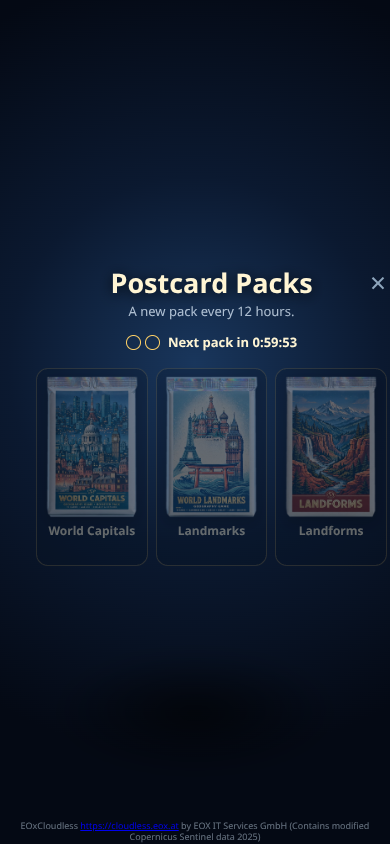
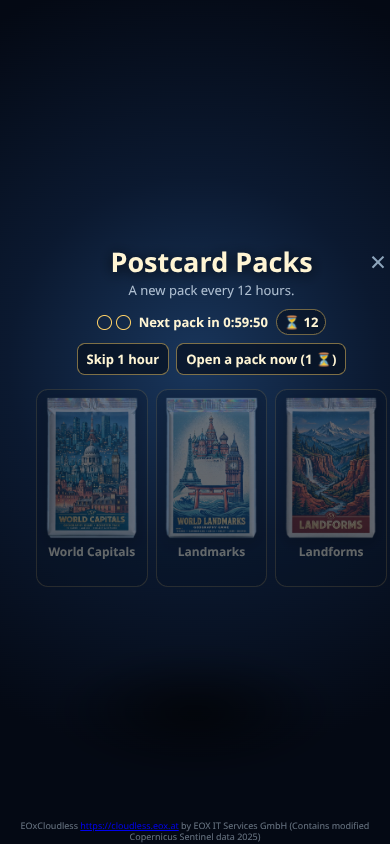
pack-tokens: hour-skip currency (starter grant 12, roll-forward spending) and capitals set completed to 206

Changed region(s): [[0.0923, 0.2773, 0.9846, 0.6777], [0.9846, 0.6469, 1.0, 0.6777], [0.9538, 0.3081, 0.9846, 0.3389]]

diff --git a/src/modes/pack.js b/src/modes/pack.js
@@ -14,7 +14,7 @@ import { formatKm } from '../core/format.js';
 import { buildPostcardCard } from '../meta/postcard-card.js';
 import {
   PACK_CARDS, packPool, landmarkPackPool, landformPackPool, readPack, ensurePack,
-  savePackResult, completePack, spend, writePack, packOutcome, packSummary,
+  savePackResult, completePack, spend, applySkips, writePack, packOutcome, packSummary,
 } from '../meta/pack-store.js';
 
 let host = null;
@@ -29,6 +29,7 @@ export const pack = { active: false, type: 'capitals', card: 0, item: null, reco
 
 let entry;
 let els;
+let tickSelect = null;
 // The opening ritual (2026-10-18): a fresh pack starts sealed for this
 // session, the unplayed cards wait in one stack and the top card flips to
 // its clue before its round (2026-10-29), and a played card stamps into its
@@ -225,7 +226,34 @@ export function showPackSelect() {
   const render = () => {
     if (els.select.hidden) return;
     pack.record = readPack();
-    els.selectStamina.innerHTML = `<span class="pack-pips" aria-hidden="true"><i class="${pack.record.stamina.stored > 0 ? 'full' : ''}"></i><i class="${pack.record.stamina.stored > 1 ? 'full' : ''}"></i></span>${staminaText(pack.record)}`;
+    const waitHours = pack.record.stamina.nextAt == null ? 0
+      : Math.max(0, Math.ceil((pack.record.stamina.nextAt - Date.now()) / (60 * 60 * 1000)));
+    els.selectStamina.innerHTML = `<div class="pack-stamina-line"><span class="pack-pips" aria-hidden="true"><i class="${pack.record.stamina.stored > 0 ? 'full' : ''}"></i><i class="${pack.record.stamina.stored > 1 ? 'full' : ''}"></i></span><span class="pack-stamina-text">${staminaText(pack.record)}</span><span class="pack-skip-balance">⏳ ${pack.record.skips}</span></div>`;
+    if (pack.record.stamina.stored < 2 && pack.record.skips > 0) {
+      const actions = document.createElement('div');
+      actions.className = 'pack-skip-actions';
+      const skipButton = document.createElement('button');
+      skipButton.type = 'button';
+      skipButton.textContent = 'Skip 1 hour';
+      skipButton.addEventListener('click', () => {
+        applySkips(pack.record, 1);
+        writePack(pack.record);
+        render();
+      });
+      actions.append(skipButton);
+      if (waitHours && pack.record.skips >= waitHours) {
+        const openButton = document.createElement('button');
+        openButton.type = 'button';
+        openButton.textContent = `Open a pack now (${waitHours} ⏳)`;
+        openButton.addEventListener('click', () => {
+          applySkips(pack.record, waitHours);
+          writePack(pack.record);
+          render();
+        });
+        actions.append(openButton);
+      }
+      els.selectStamina.append(actions);
+    }
     els.choices.replaceChildren(...PACKS.map((config) => {
       const saved = pack.record.byType[config.type];
       const inProgress = Boolean(saved && (saved.torn || saved.results.some(Boolean)));
@@ -241,6 +269,16 @@ export function showPackSelect() {
       });
       return button;
     }));
+  };
+  tickSelect = () => {
+    if (els.select.hidden) return;
+    const stored = pack.record.stamina.stored;
+    pack.record = readPack();
+    if (pack.record.stamina.stored !== stored) render();
+    else {
+      const text = els.selectStamina.querySelector('.pack-stamina-text');
+      if (text) text.textContent = staminaText(pack.record);
+    }
   };
   render();
   els.screen.hidden = false;
@@ -617,7 +655,7 @@ export function initPack(main) {
     else host.goHome();
   });
   setInterval(() => {
-    if (!screen.hidden && !els.select.hidden) showPackSelect();
+    if (!screen.hidden && !els.select.hidden) tickSelect?.();
     else if (!host.gameEls.start.hidden) syncPackButton();
   }, 1000);
 }

diff --git a/src/meta/pack-store.js b/src/meta/pack-store.js
@@ -8,6 +8,7 @@ import { PACK_LANDFORM_IDS } from './pack-landforms.js';
 export const PACK_CARDS = 3;
 export const STAMINA_MAX = 2;
 export const STAMINA_PERIOD = 12 * 60 * 60 * 1000;
+export const SKIP_PERIOD = 60 * 60 * 1000;
 export const PACK_TYPES = ['capitals', 'landmarks', 'landforms'];
 const LEGACY_TORN_KEY = `${PACK_KEY}-torn`;
 
@@ -45,7 +46,23 @@ export function spend(record, now = Date.now()) {
   return true;
 }
 
+export function applySkips(record, count, now = Date.now()) {
+  let consumed = 0;
+  while (consumed < count && record.skips > 0 && record.stamina.stored < STAMINA_MAX) {
+    record.stamina.nextAt -= SKIP_PERIOD;
+    record.skips -= 1;
+    consumed += 1;
+    if (record.stamina.nextAt <= now) {
+      record.stamina.stored += 1;
+      record.stamina.nextAt = record.stamina.stored >= STAMINA_MAX
+        ? null : record.stamina.nextAt + STAMINA_PERIOD;
+    }
+  }
+  return consumed;
+}
+
 const freshRecord = () => ({
+  skips: 12,
   stamina: { stored: STAMINA_MAX, nextAt: null },
   byType: { capitals: null, landmarks: null, landforms: null },
 });
@@ -53,10 +70,12 @@ const freshRecord = () => ({
 export function readPack(now = Date.now()) {
   const saved = readJSON(PACK_KEY);
   if (saved?.byType && saved?.stamina) {
+    const missingSkips = !Object.hasOwn(saved, 'skips');
+    if (missingSkips) saved.skips = 12;
     const before = JSON.stringify(saved.stamina);
     accrue(saved, now);
     for (const type of PACK_TYPES) if (!(type in saved.byType)) saved.byType[type] = null;
-    if (JSON.stringify(saved.stamina) !== before) writePack(saved);
+    if (missingSkips || JSON.stringify(saved.stamina) !== before) writePack(saved);
     return saved;
   }
   const record = freshRecord();

diff --git a/src/styles/game.css b/src/styles/game.css
@@ -475,7 +475,11 @@ body:not(.game-start) .load-pill.on { opacity: 0; visibility: hidden; transition
 .pack-panel h2 { padding: 0 34px; color: #fff5d4; font-size: 25px; line-height: 1.1; text-shadow: 0 2px 14px rgba(0,0,0,.8); }
 .pack-panel > .pack-line { margin: 4px 0 8px; }
 .pack-subline { margin: 5px 0 10px; color: rgba(224,238,252,.76); font-size: 13px; }
-.pack-stamina { display: flex; align-items: center; justify-content: center; gap: 8px; min-height: 24px; margin-bottom: 14px; color: #fff5d4; font-size: 13px; font-weight: 750; }
+.pack-stamina { min-height: 24px; margin-bottom: 14px; color: #fff5d4; font-size: 13px; font-weight: 750; }
+.pack-stamina-line { display: flex; align-items: center; justify-content: center; gap: 8px; }
+.pack-skip-balance { padding: 3px 7px; border: 1px solid rgba(255,209,102,.42); border-radius: 999px; background: rgba(5,15,31,.58); }
+.pack-skip-actions { display: flex; justify-content: center; gap: 7px; margin-top: 8px; }
+.pack-skip-actions button { padding: 6px 9px; border: 1px solid rgba(255,209,102,.48); border-radius: 8px; background: rgba(5,15,31,.72); color: #fff5d4; font: inherit; cursor: pointer; }
 .pack-pips { display: inline-flex; gap: 4px; }
 .pack-pips i { width: 13px; height: 13px; border: 1px solid #ffd166; border-radius: 50%; background: transparent; }
 .pack-pips i.full { background: #ffd166; box-shadow: 0 0 7px rgba(255,209,102,.65); }

diff --git a/src/meta/pack-capitals.js b/src/meta/pack-capitals.js
@@ -99,6 +99,7 @@ export const PACK_CAPITAL_IDS = new Set([
   'ljubljana-si',
   'lome-tg',
   'london-uk',
+  'longyearbyen-svalbard',
   'luanda-angola',
   'lusaka',
   'luxembourg-city',
@@ -130,12 +131,15 @@ export const PACK_CAPITAL_IDS = new Set([
   'nicosia-cyprus',
   'niue-alofi',
   'nouakchott-mr',
+  'noumea-new-caledonia',
   'nuku-alofa-tonga',
+  'nuuk-greenland',
   'oslo-norway',
   'ottawa-canada',
   'ouagadougou-burkina-faso',
   'palikir-micronesia',
   'panama-city',
+  'papeete-tahiti',
   'paramaribo-suriname',
   'paris-france',
   'phnom-penh-cambodia',
@@ -159,6 +163,7 @@ export const PACK_CAPITAL_IDS = new Set([
   'rome-italy',
   'roseau-dominica',
   'san-jose-costa-rica',
+  'san-juan',
   'san-marino-san-marino',
   'san-salvador-sv',
   'sanaa-ye',

diff --git a/scripts/pack-capitals/derive.py b/scripts/pack-capitals/derive.py
@@ -30,6 +30,9 @@ CAPITAL_OVERRIDES = {
     'Mongolia': ['Ulaanbaatar'], 'Myanmar': ['Nay Pyi Taw'], 'San Marino': ['San Marino'], 'Yemen': ['Sanaa'],
     'India': ['Delhi'], 'Equatorial Guinea': ['Malabo'], 'Eswatini': ['Mbabane'], 'South Africa': ['Pretoria'],
 }
+# Territory capitals are filed under their administering country in the bank,
+# so the per-country capital pass above cannot discover them.
+EXTRA_IDS = ['nuuk-greenland', 'noumea-new-caledonia', 'papeete-tahiti', 'longyearbyen-svalbard', 'san-juan']
 
 
 def norm(text):
@@ -76,6 +79,11 @@ def main(ref_path):
         if not playable(hits[0]):
             notes.append(f'{country}: {hits[0]["id"]} is not playable')
         ids.append(hits[0]['id'])
+    by_id = {item['id']: item for item in bank}
+    for item_id in EXTRA_IDS:
+        item = by_id.get(item_id)
+        if item and playable(item):
+            ids.append(item_id)
     body = ',\n'.join(f"  '{i}'" for i in sorted(ids))
     with open('src/meta/pack-capitals.js', 'w') as out:
         out.write(
